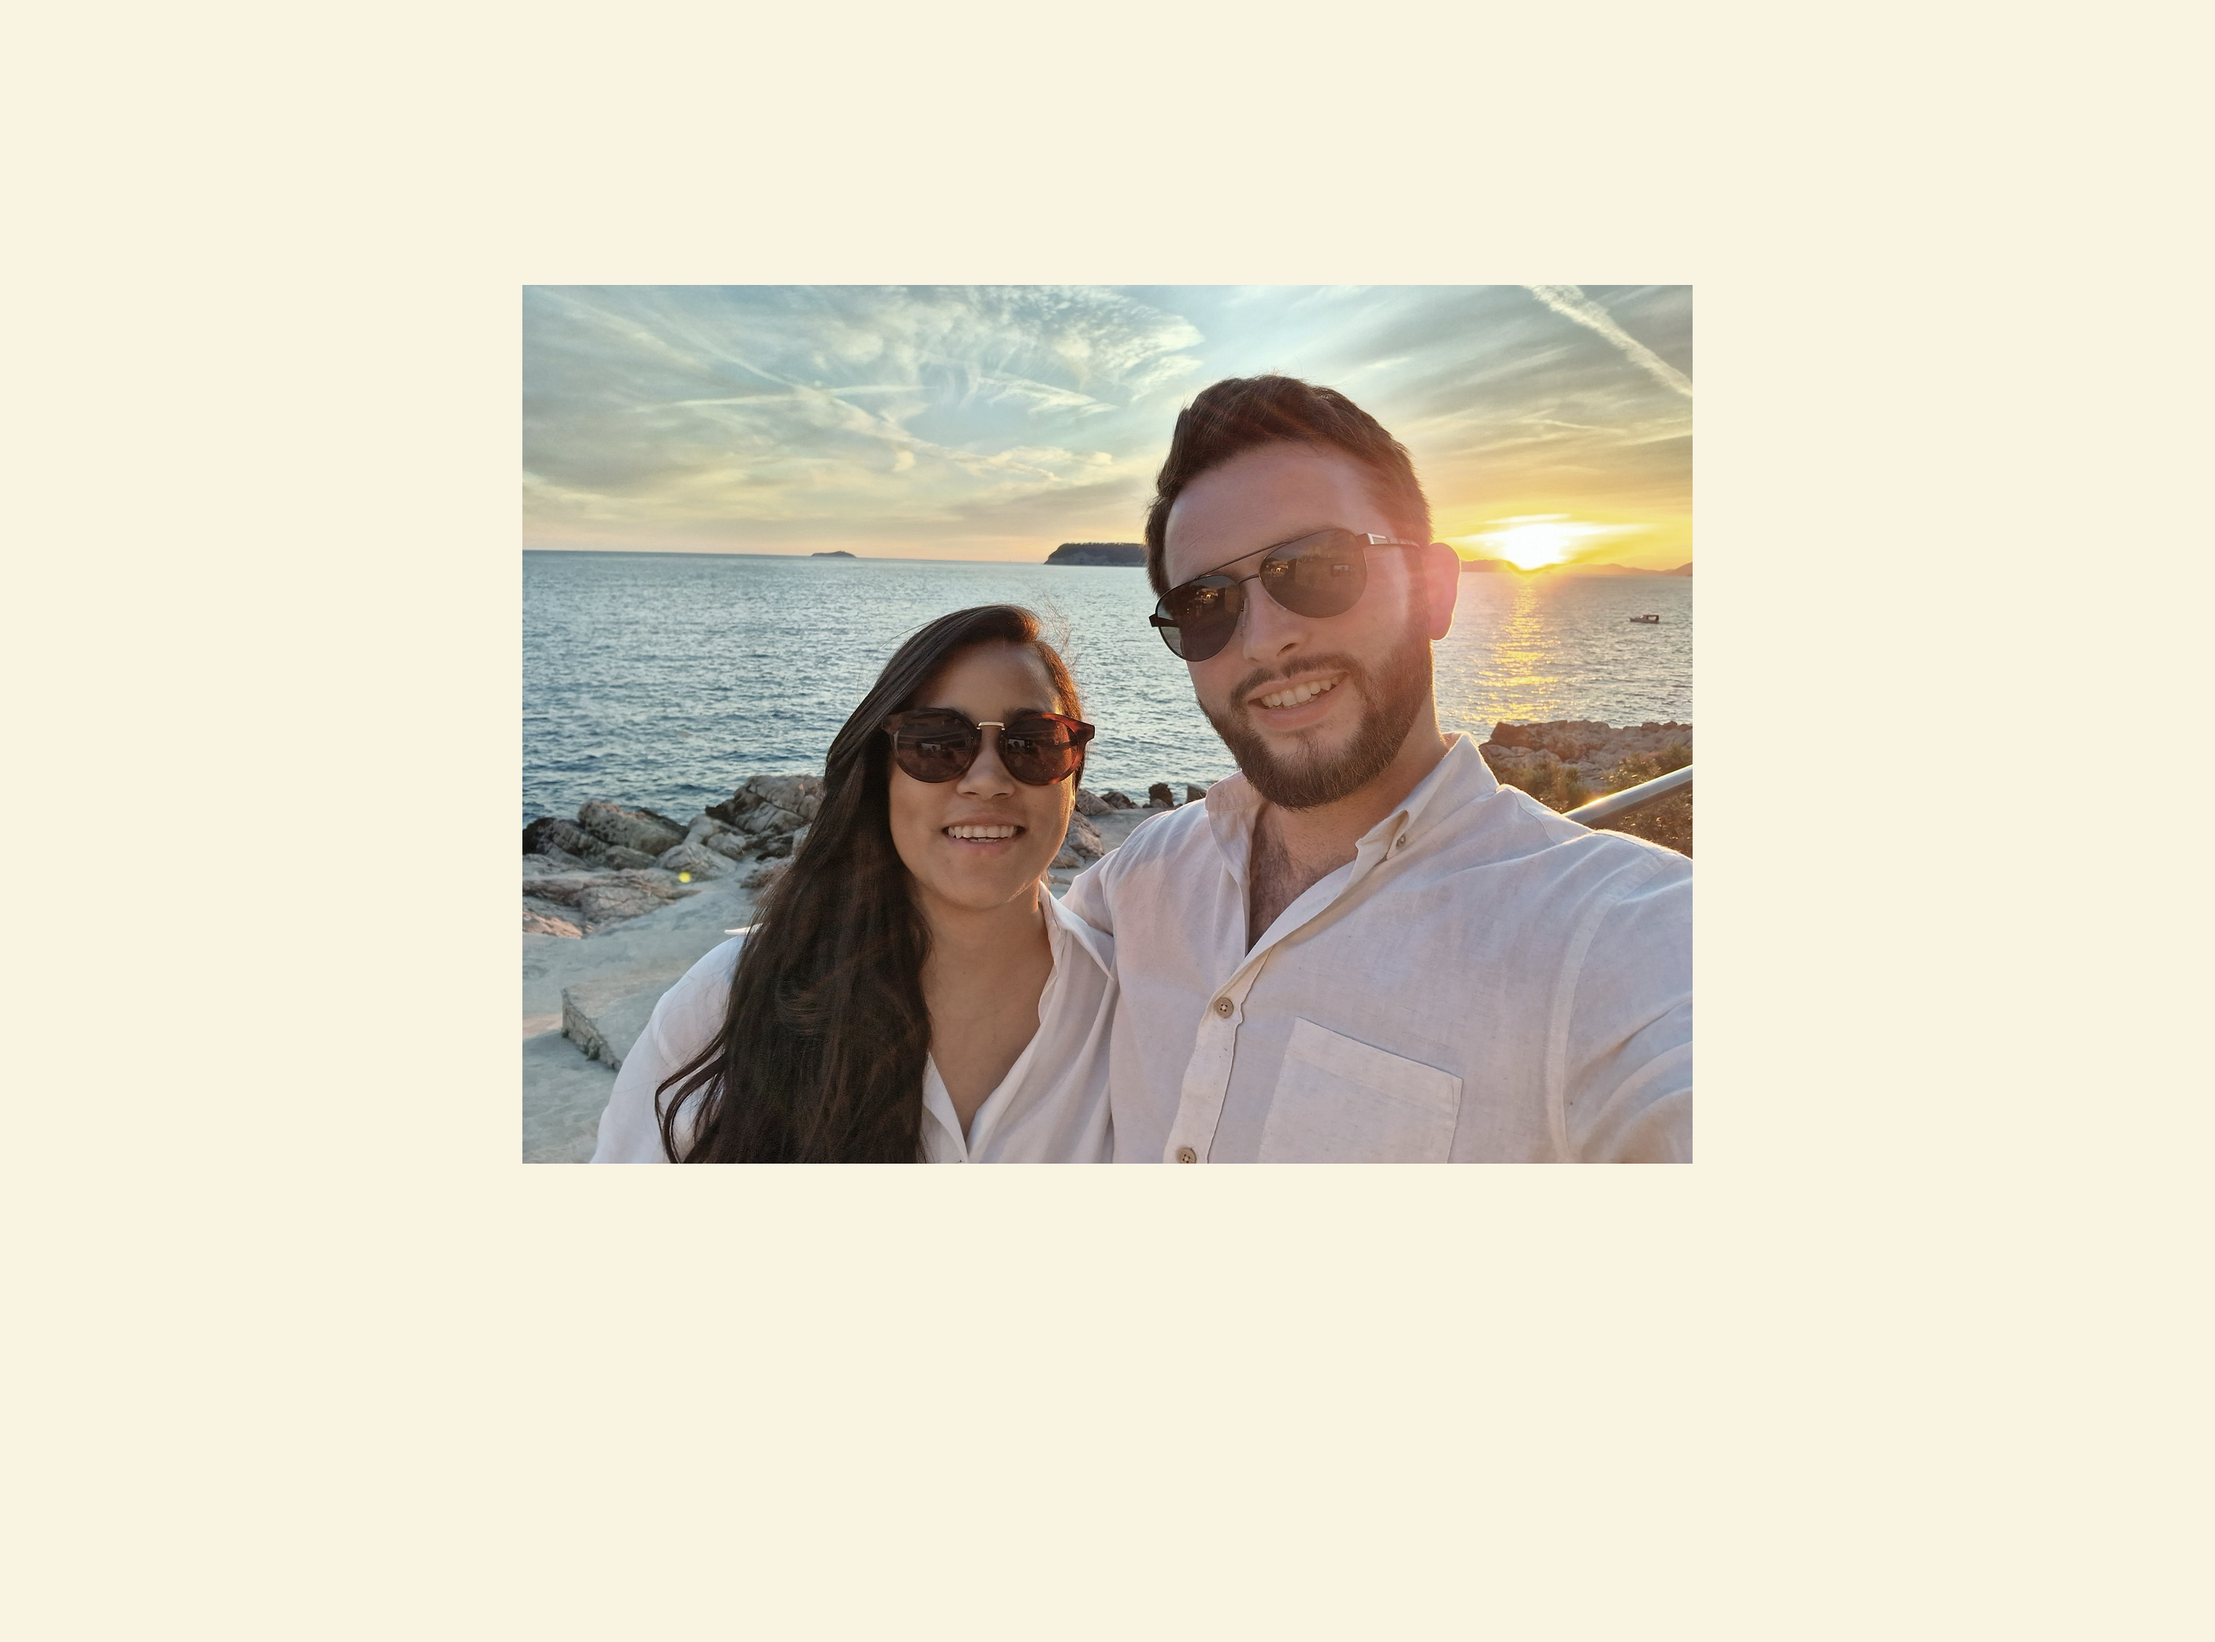
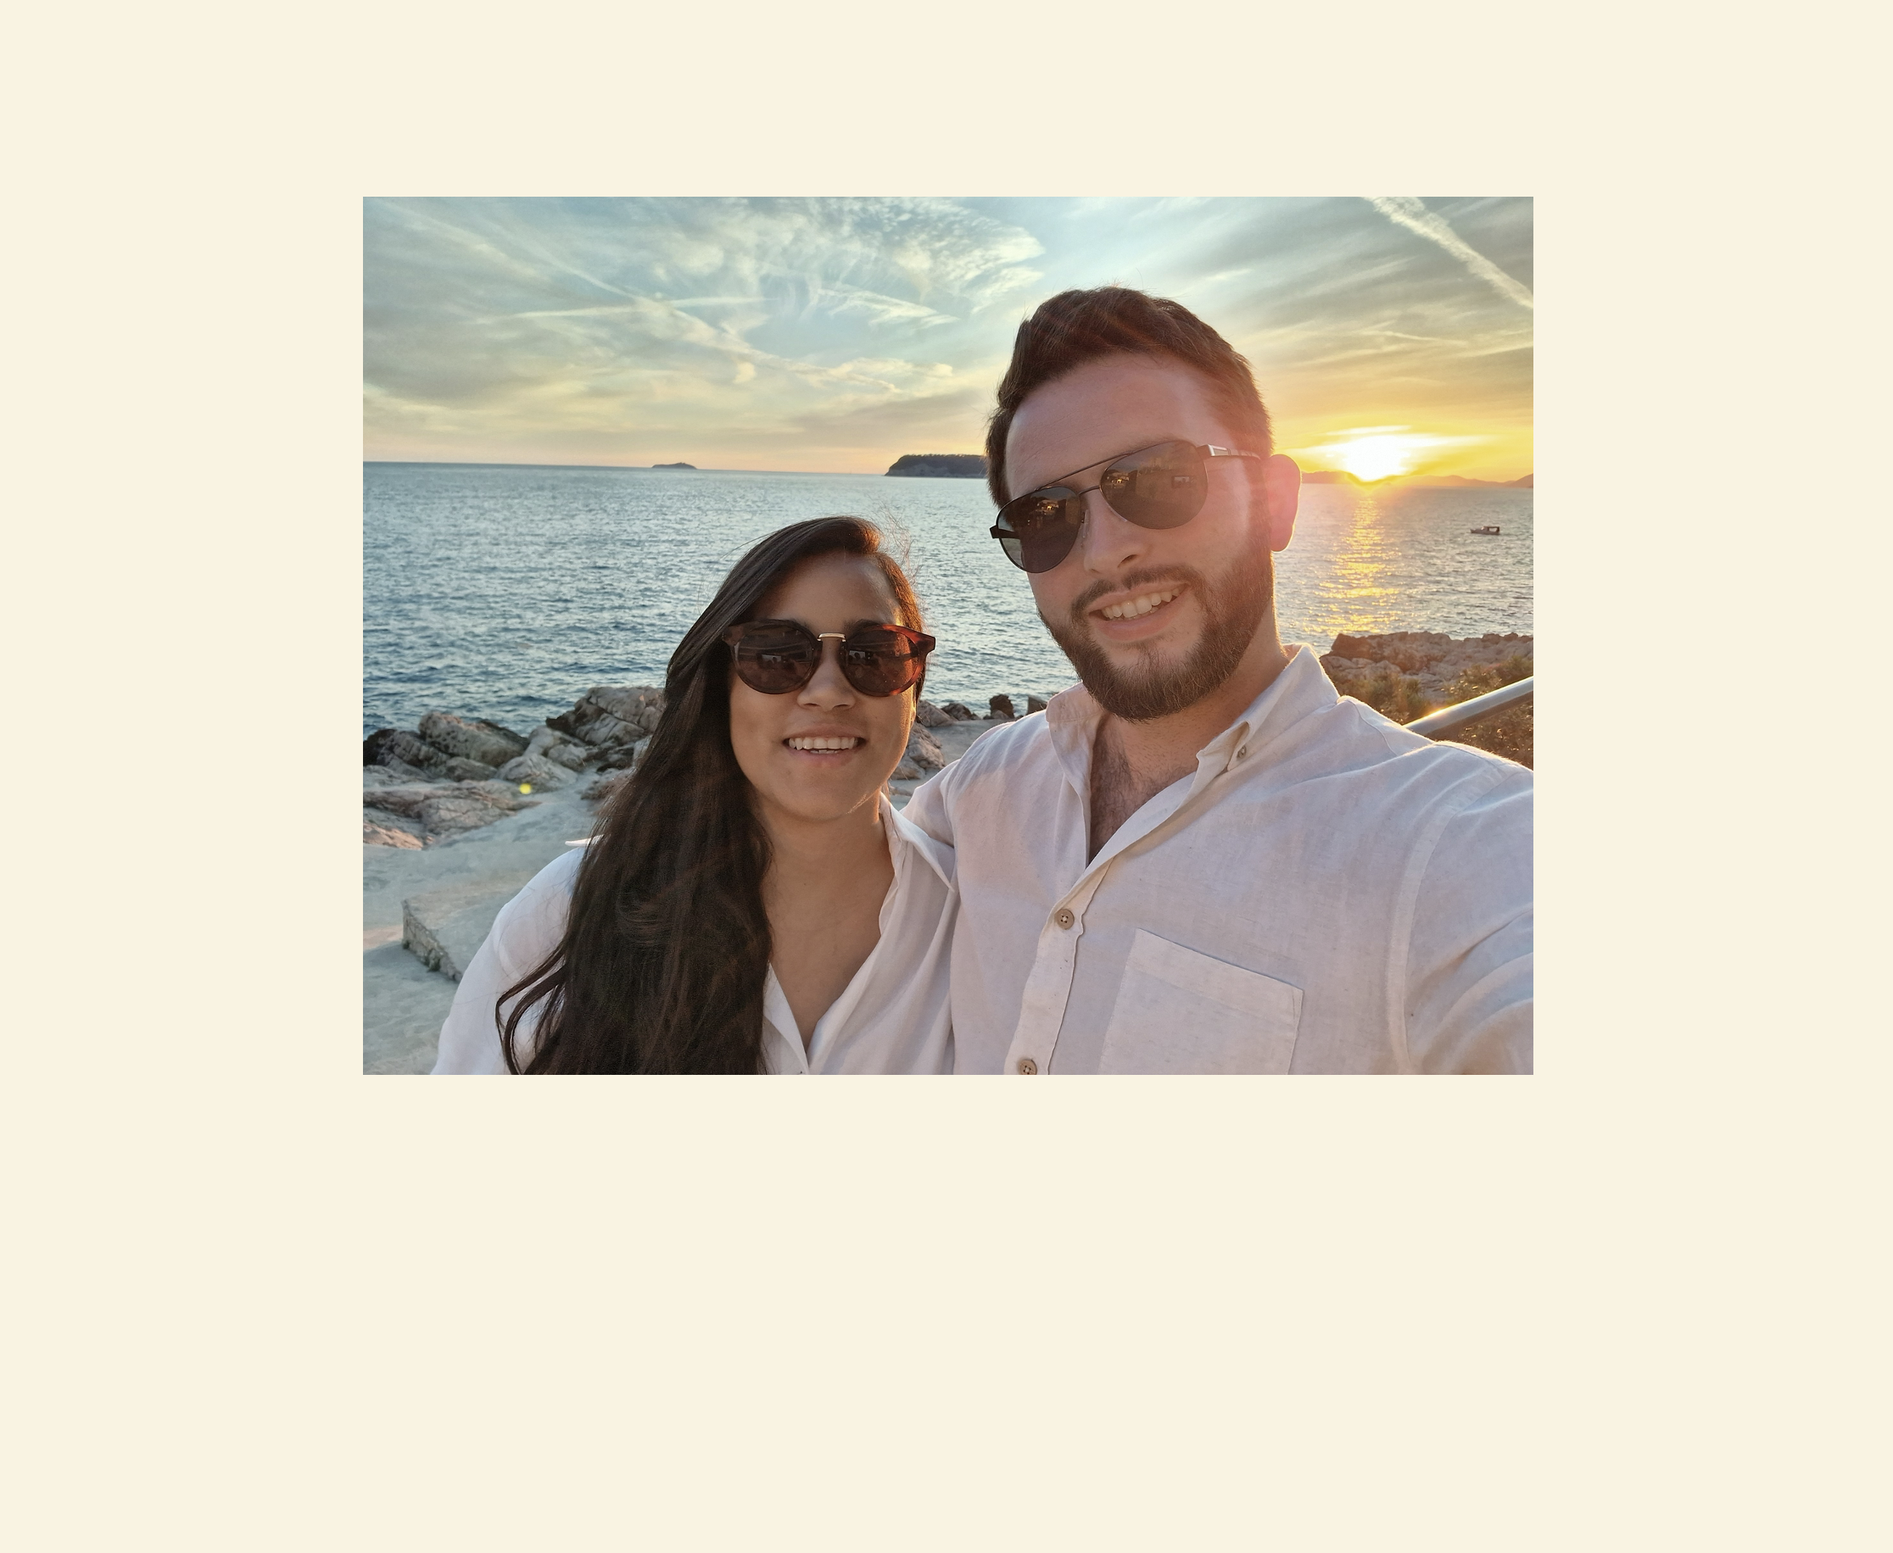
edits

Changed region(s): [[0.1855, 0.1245, 0.8347, 0.7156]]

diff --git a/_site/index.html b/_site/index.html
@@ -62,7 +62,8 @@
         
 
         <div class="container center">
-          <!-- <div style="margin-top: 500px;"></div>   <!-- add blank space above -->
+          <div style="margin-top: 250px;"></div>
+<p><!-- add blank space above --></p>
 
 <!-- "Liana y Camille" -->
 <div style="

diff --git a/_site/home.html b/_site/home.html
@@ -1,4 +1,5 @@
-<!-- <div style="margin-top: 500px;"></div>   <!-- add blank space above -->
+<div style="margin-top: 250px;"></div>
+<p><!-- add blank space above --></p>
 
 <!-- "Liana y Camille" -->
 <div style="

diff --git a/_posts/2000-01-01-home.md b/_posts/2000-01-01-home.md
@@ -5,7 +5,7 @@ color: charcoal
 style: center
 ---
 
-<!-- <div style="margin-top: 500px;"></div>   <!-- add blank space above -->
+<div style="margin-top: 250px;"></div>   <!-- add blank space above -->
 
 <!-- "Liana y Camille" -->
 <div style="
